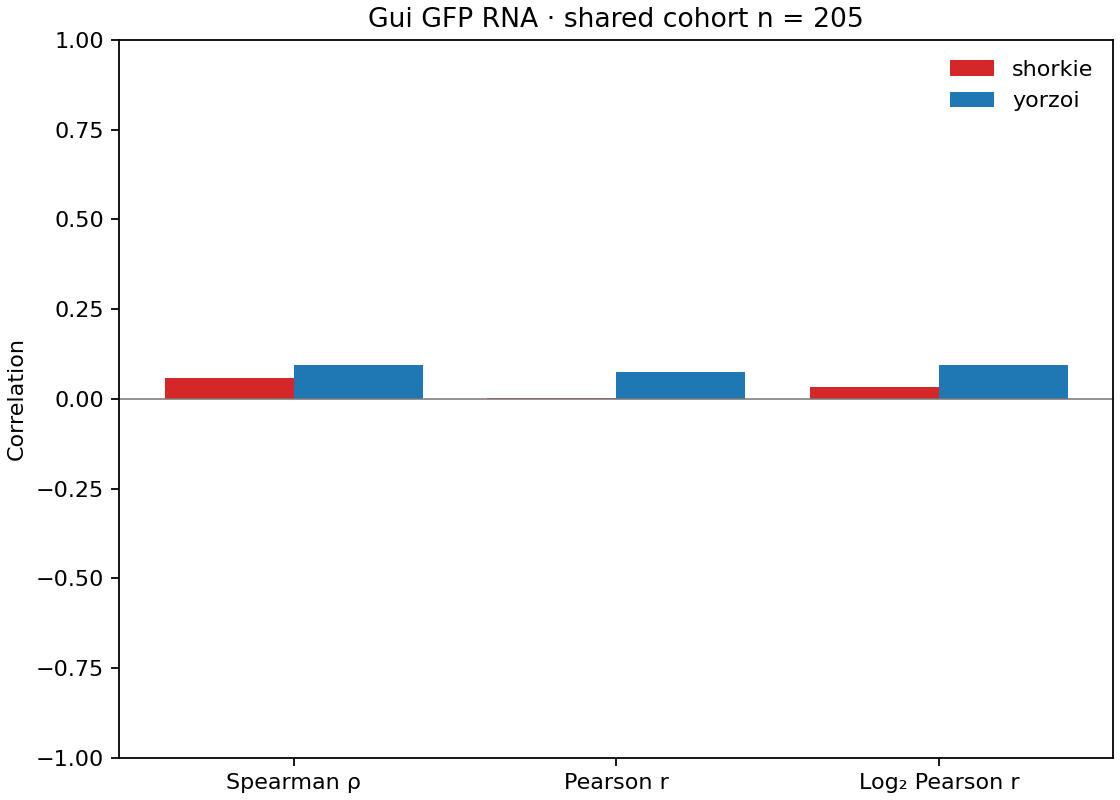
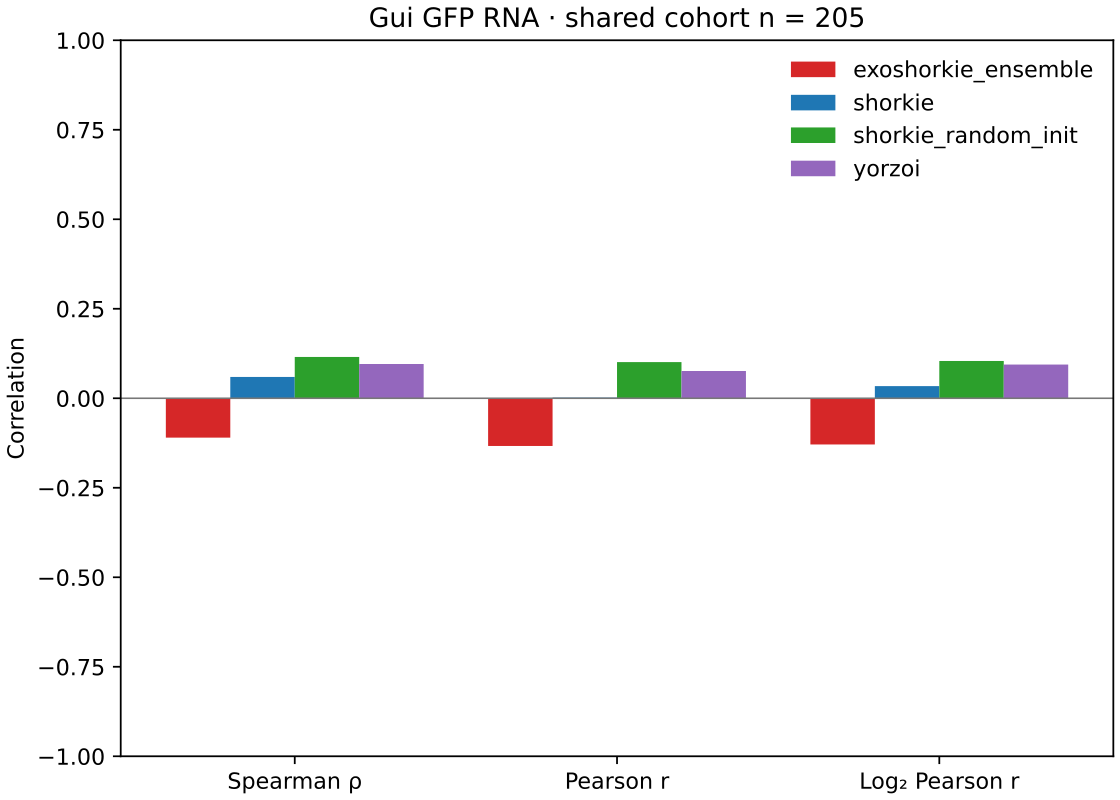
Report Gui ExoShorkie and random-init benchmark results

diff --git a/docs/benchmarks/gui_gfp_rna.md b/docs/benchmarks/gui_gfp_rna.md
@@ -72,15 +72,26 @@ strategies and the existing Hong/Wu tasks are unchanged.
 
 Shorkie uses all **1,014 tracks from the 1000-RNA-Seq group** (zero-based track
 IDs 4201–5214), with the configured eight-fold ensemble and reverse-complement
-averaging. Yorzoi uses all **11 Illumina samples**, selecting the matching
-reporter strand: plus-strand track IDs 0–10 or minus-strand IDs 81–91. This
-includes the ten human-construct samples and SRR21628668; Nanopore tracks are
-excluded. Yorzoi retains its existing inverse transformation and
-reverse-complement handling. Both sum linear per-base RNA predictions over the
-complete GFP CDS and take the arithmetic mean across the selected tracks.
-Scores are not calibrated TPM.
+averaging. `shorkie_random_init` uses eight published folds trained from random
+initialization, with the same tracks, readout and reverse-complement averaging.
 
-These groups replace the initial Shorkie T0 and Yorzoi all-RNA readouts. The
+Yorzoi uses all **11 Illumina samples**, selecting the matching reporter strand:
+plus-strand track IDs 0–10 or minus-strand IDs 81–91. This includes the ten
+human-construct samples and SRR21628668; Nanopore tracks are excluded. Yorzoi
+retains its existing inverse transformation and reverse-complement handling.
+Both Shorkie variants and Yorzoi sum linear per-base RNA predictions over the
+complete GFP CDS and take the arithmetic mean across the selected tracks.
+
+ExoShorkie uses all six distilled students (`HPRT1`, `HPRT1R`, `dChr`, `chr7`,
+`Mpneumo`, `Mmmyco`) with equal weights. Each student's predictions are decoded
+to linear CPM coverage using its published normalization statistics and clipped
+at zero before averaging. The adapter selects the reporter's RNA strand by
+input orientation and sums coverage over the exact GFP CDS bases, including
+partial output bins. Reverse-complement inference selects the opposite RNA
+strand; the two strands are not averaged. None of these scores are calibrated
+GFP TPM.
+
+The Shorkie and Yorzoi track groups replace the initial T0 and all-RNA readouts. The
 choice was revised after examining per-track and group performance on Gui, so
 it was informed by this dataset rather than specified before evaluation.
 The sequence cohort, CDS readout and evaluation metrics are unchanged.
@@ -107,11 +118,11 @@ intersection of scored locus IDs and requires identical input-file hashes and
 matching labels, so stale results from different sequence reconstructions cannot
 be compared silently.
 
-Outputs include `predictions.tsv`, `summary.json`, separate linear/log scatter
-PNGs and SVGs, and a common-cohort model comparison. Each new benchmark figure
-has one panel; no PDF is written. The summary records input file hashes and
-the selected track IDs and aggregation; the CLI also records the run
-configuration and code commit.
+Outputs include `predictions.tsv`, `metrics.json`, the CLI's `summary.json`,
+separate linear/log scatter PNGs and SVGs, and a common-cohort model comparison.
+Each new benchmark figure has one panel; no PDF is written. Metrics record input
+file hashes and the selected tracks and aggregation; the CLI also records the
+run configuration and code commit.
 
 ## Reproduction
 
@@ -189,44 +200,62 @@ No fluorescence, neighboring-gene or fitness endpoint is evaluated here.
 
 ## Results
 
-Both models were rerun on 2026-11-11, sequentially on NVIDIA RTX A6000 GPU 1,
-using code commit `b356a5f`. The model settings are now included in
-`configs/default.yaml`.
-All 205 eligible genotypes produced finite positive predictions; all 717 GFP
-CDS bases contributed to every score. The 35 source exclusions are identical
-between models.
+Shorkie and Yorzoi were run on 2026-11-11, sequentially on NVIDIA RTX A6000
+GPU 1, using code commit `b356a5f`. Shorkie trained from random initialization
+and the ExoShorkie ensemble were run on 2026-11-12 on GPU 0 of the same GPU
+type, using commit `1e91d39` and `configs/default.yaml` (config hash
+`aa8c51e3f437`). The default config includes all four model settings.
+
+All four runs use identical input-file hashes and the same 205 eligible
+genotypes. Every prediction is finite and positive, so all 205 also enter log2
+Pearson; all 717 GFP CDS bases contribute to every score. The 35 source
+exclusions are identical between models.
 
 | Model | n | Spearman ρ (95% CI) | Pearson r | log2 Pearson r |
 | --- | ---: | ---: | ---: | ---: |
 | Shorkie, 1000-RNA-Seq, eight folds + RC | 205 | 0.060 (−0.077, 0.182) | 0.002 | 0.034 |
+| Shorkie random init, eight folds + RC | 205 | 0.115 (−0.031, 0.267) | 0.101 | 0.104 |
 | Yorzoi, all Illumina + RC | 205 | 0.096 (−0.045, 0.233) | 0.076 | 0.094 |
+| ExoShorkie, six-student ensemble | 205 | −0.110 (−0.247, 0.032) | −0.133 | −0.129 |
 
-Removing IMP4 leaves Spearman ρ = 0.066 for Shorkie and 0.091 for Yorzoi
-(n = 204). Neither model shows a clear rank association under this protocol;
-the confidence intervals for all three correlations include zero. This does
-not identify whether the limitation comes from the models, unobserved strain
-variation, trans effects, or measurement variability.
+Removing IMP4 leaves Spearman ρ = 0.066 for Shorkie, 0.106 for Shorkie trained
+from random initialization, 0.091 for Yorzoi and −0.098 for ExoShorkie (n = 204).
+None of the models shows a clear rank association under this protocol; the
+confidence intervals for all three correlations include zero for every model.
+This does not identify whether the limitation comes from the models,
+unobserved strain variation, trans effects, or measurement variability.
 
 The centered inputs expose about 7.13 kb upstream and 6.04 kb downstream of
-native sequence to Shorkie, versus 1.43 kb and 0.34 kb to Yorzoi. These distances
-are relative to GFP transcription and exclude the synthetic payload. The models
-therefore have different amounts of native genomic context.
+native sequence to both Shorkie variants and ExoShorkie, versus 1.43 kb and
+0.34 kb to Yorzoi. These distances are relative to GFP transcription and exclude
+the synthetic payload. The models therefore have different amounts of native
+genomic context.
 
-Runtime outputs follow the standard layout:
-`results/default/{shorkie,yorzoi}__gui_gfp_rna/`. Each contains
-`predictions.tsv`, `metrics.json`, the CLI's `summary.json`, and scatter plots.
-Predictions retain all exclusions and model-window hashes; metrics retain the
-confidence intervals, input hashes, selected tracks, and IMP4 sensitivity.
-Cross-model comparison writes `plot.svg` and `common_cohort_metrics.json` under
+All four runs are available under `results/default/<model>__gui_gfp_rna/`,
+where `<model>` is `shorkie`, `shorkie_random_init`, `yorzoi` or
+`exoshorkie_ensemble`. Each contains `predictions.tsv`, `summary.json`,
+`run_metadata.json` and scatter plots. The two new runs also have `metrics.json`;
+the original Shorkie/Yorzoi runs retain their metrics inside `summary.json`.
+Predictions retain all exclusions and model-window hashes; metrics retain
+confidence intervals, input hashes, readout details and IMP4 sensitivity.
+The four-model comparison uses the same 205 genotypes and writes `plot.svg`
+and `common_cohort_metrics.json` under
 `results/default/compare/per_task/gui_gfp_rna/`.
 
-The reported runs remain locally under `results/gui_gfp_rna/`. Historical
-T0/all-RNA outputs are in `results/gui_gfp_rna_t0_all_rna_v1/`; earlier track
-diagnostics refer to those historical readouts.
+The original Shorkie/Yorzoi runs also remain under `results/gui_gfp_rna/`;
+their copies in `results/default/` preserve the original files and provenance.
+Historical T0/all-RNA outputs are in `results/gui_gfp_rna_t0_all_rna_v1/`;
+earlier track diagnostics refer to those historical readouts. Raw predictions
+and metrics remain with the runtime outputs rather than being copied into docs.
 
 ![Shorkie GFP RNA prediction](../../img/results/gui_gfp_rna/shorkie_scatter_log.png)
 
+![Shorkie trained from random initialization GFP RNA prediction](../../img/results/gui_gfp_rna/shorkie_random_init_scatter_log.png)
+
 ![Yorzoi GFP RNA prediction](../../img/results/gui_gfp_rna/yorzoi_scatter_log.png)
 
-Linear-scale versions and the shared-cohort comparison are in
+![ExoShorkie ensemble GFP RNA prediction](../../img/results/gui_gfp_rna/exoshorkie_ensemble_scatter_log.png)
+
+The [four-model comparison](../../img/results/gui_gfp_rna/comparison.png) and
+linear-scale scatter plots are in
 [`img/results/gui_gfp_rna/`](../../img/results/gui_gfp_rna/).

diff --git a/README.md b/README.md
@@ -2,7 +2,7 @@
 
 ![image](img/readme_banner.svg)
 
-`ybench` is a comprehensive set of eleven tasks to benchmark yeast-focussed sequence-to-function (S2F) models like Shorkie and Yorzoi. Each task covers a different part of the genome's regulatory complexity from eQTLs, promoter/UTR/terminator [MPRAs](https://www.google.com/search?q=mpra+massively+parallel+reporter+assay), reporter gene insertions in different genomic locations to investigate context effects as well as exogenous but linearised bacterial DNA in yeast and structurally rearranged chromosomes.
+`ybench` is a comprehensive set of twelve tasks to benchmark yeast-focussed sequence-to-function (S2F) models like Shorkie and Yorzoi. Each task covers a different part of the genome's regulatory complexity from eQTLs, promoter/UTR/terminator [MPRAs](https://www.google.com/search?q=mpra+massively+parallel+reporter+assay), reporter gene insertions in different genomic locations to investigate context effects as well as exogenous but linearised bacterial DNA in yeast and structurally rearranged chromosomes.
 
 ## Table of Contents
 
@@ -28,6 +28,7 @@ Please find a more comprehensive overview in [docs/benchmarks/](docs/benchmarks)
 | [Chen synonymous MPRA](docs/benchmarks/chen_synonymous.md) | synonymous-codon effect on mRNA abundance | regression, 3 libraries | Pearson *r* + Spearman ρ on `log2(R/D)` (R = RNA, D = DNA read counts) | 
 | [Wu RFP insertions](docs/benchmarks/wu_rfpins.md) | fixed reporter cassette across open reading frame (ORF) deletion loci (position effect) | regression | Pearson *r* + Spearman ρ (+ tail AUROC) | 
 | [Hong IGR insertions](docs/benchmarks/hong_igr.md) | fixed reporter across intergenic loci (position effect) | regression | Spearman ρ on the held-out test loci (n = 52) | 
+| [Gui GFP RNA](docs/benchmarks/gui_gfp_rna.md) | GFP RNA abundance after heterozygous gene replacement at 205 resolved loci | regression | Spearman ρ; raw/log2 Pearson alongside |
 | [Brooks SCRaMBLE](docs/benchmarks/brooks_scramble.md) | SCRaMBLE rearrangement (altered neighbour / downstream context) | coverage-track log-fold-change (LFC) | direction balanced accuracy, then Spearman / Pearson — reported per JS94 parental run | 
 | [Cuperus 5′-UTR](docs/benchmarks/cuperus_mpra_5utr.md) | random 50 bp 5′ untranslated regions (5′-UTRs) — Kozak, uORFs, structure | regression (HIS3 reporter) | Spearman/Pearson + partial correlation over Kozak features | 
 | [Lee YTK promoters](docs/benchmarks/ytk_promoter.md) | 19 integrated promoters driving mRuby2 or Venus | regression (reporter RNA range) | two-reporter consensus dynamic-range recovery + Spearman/Pearson |
@@ -58,6 +59,7 @@ numbers are from earlier local runs.
 | [Chen synonymous MPRA](docs/benchmarks/chen_synonymous.md) | **Mixed** | Shorkie on GFP, CAI on TDH3 |
 | [Wu RFP insertions](docs/benchmarks/wu_rfpins.md) | **Neither** | both ≈ 0 — position effect not captured |
 | [Hong IGR insertions](docs/benchmarks/hong_igr.md) | **Neither** | both ≈ 0 |
+| [Gui GFP RNA](docs/benchmarks/gui_gfp_rna.md) | **No clear association** | four models, Spearman ρ −0.110 to 0.115; all 95% intervals include zero |
 | [Brooks SCRaMBLE](docs/benchmarks/brooks_scramble.md) | **Yorzoi** | LFC dir-acc 0.62–0.65 vs 0.51–0.61, leading in all 3 JS94 runs (shape metric deferred to v2) |
 | [Cuperus 5′-UTR](docs/benchmarks/cuperus_mpra_5utr.md) | **Shorkie** | random Spearman ρ 0.25 vs 0.12 |
 | [Lee YTK promoters](docs/benchmarks/ytk_promoter.md) | **Shorkie** | range recovery 0.165 vs 0.109; consensus ρ 0.653 vs 0.570 |

diff --git a/docs/results.md b/docs/results.md
@@ -20,6 +20,7 @@ per-metric tables for each comparison live next to the runs in
 | [Chen synonymous MPRA](#chen-synonymous-mpra) | CAI, CodonTransformer, Shorkie, Yorzoi | Pearson r / Spearman ρ | **Mixed** (Shorkie on GFP, CAI on TDH3) |
 | [Wu RFP insertions](#wu-rfp-insertions) | Shorkie, Yorzoi | Pearson r / Spearman ρ | **Neither** (both ≈ 0) |
 | [Hong IGR insertions](#hong-igr-insertions) | Shorkie, Yorzoi | Spearman ρ (held-out test set) | **Neither** (both ≈ 0) |
+| [Gui GFP RNA](#gui-gfp-rna) | Shorkie, Shorkie random init, Yorzoi, ExoShorkie ensemble | Spearman ρ | **None established** (all 95% CIs include zero) |
 | [Brooks SCRaMBLE](#brooks-scramble) | Shorkie, Yorzoi | LFC direction balanced acc., per JS94 run | **Yorzoi** (all 3 runs) |
 | [Cuperus 5′-UTR](#cuperus-5-utr) | Shorkie, Yorzoi | Spearman ρ (+ partial correlation) | **Shorkie** |
 | [Lee YTK promoters](#lee-ytk-promoters) | Shorkie, Yorzoi | consensus dynamic-range recovery + Spearman ρ | **Shorkie** |
@@ -138,6 +139,33 @@ preserved intergenic regions. ([spec](benchmarks/hong_igr.md))
 | Spearman ρ (secondary split, n=98) | -0.2687 | -0.0728 |
 
 **Winner: Neither** — both ≈ 0 / negative (informative negative).
+
+## Gui GFP RNA
+
+GFP RNA abundance across 205 source-resolved heterozygous gene replacements.
+All four models score the same genotypes and complete 717 bp GFP CDS, using
+identical labels, constructs and reference input files.
+([spec and full results](benchmarks/gui_gfp_rna.md))
+
+| Model | Spearman ρ | 95% bootstrap CI |
+| --- | ---: | ---: |
+| Shorkie, eight folds + RC | 0.060 | −0.077 to 0.182 |
+| Shorkie random init, eight folds + RC | 0.115 | −0.031 to 0.267 |
+| Yorzoi, all Illumina + RC | 0.096 | −0.045 to 0.233 |
+| ExoShorkie, six-student ensemble | −0.110 | −0.247 to 0.032 |
+
+**Winner: None established.** All intervals include zero. Shorkie trained from
+random initialization uses the published trained weights and the same 1,014
+RNA-seq tracks as pretrained Shorkie. ExoShorkie averages the six students'
+decoded, nonnegative CPM coverage on the reporter strand.
+
+Shorkie and Yorzoi retain their 2026-11-11 runs at commit `b356a5f` on RTX A6000
+GPU 1. The other two ran on 2026-11-12 at commit `1e91d39` on RTX A6000 GPU 0,
+using `configs/default.yaml`. Runtime outputs are under
+`results/default/<model>__gui_gfp_rna/`, with the original run metadata preserved.
+See the [four-model comparison](../img/results/gui_gfp_rna/comparison.png) and
+the task page for secondary correlations, IMP4 sensitivity and individual plots.
+The historical 11-task random-init appendix below predates this Gui run.
 
 ## Brooks SCRaMBLE
 
